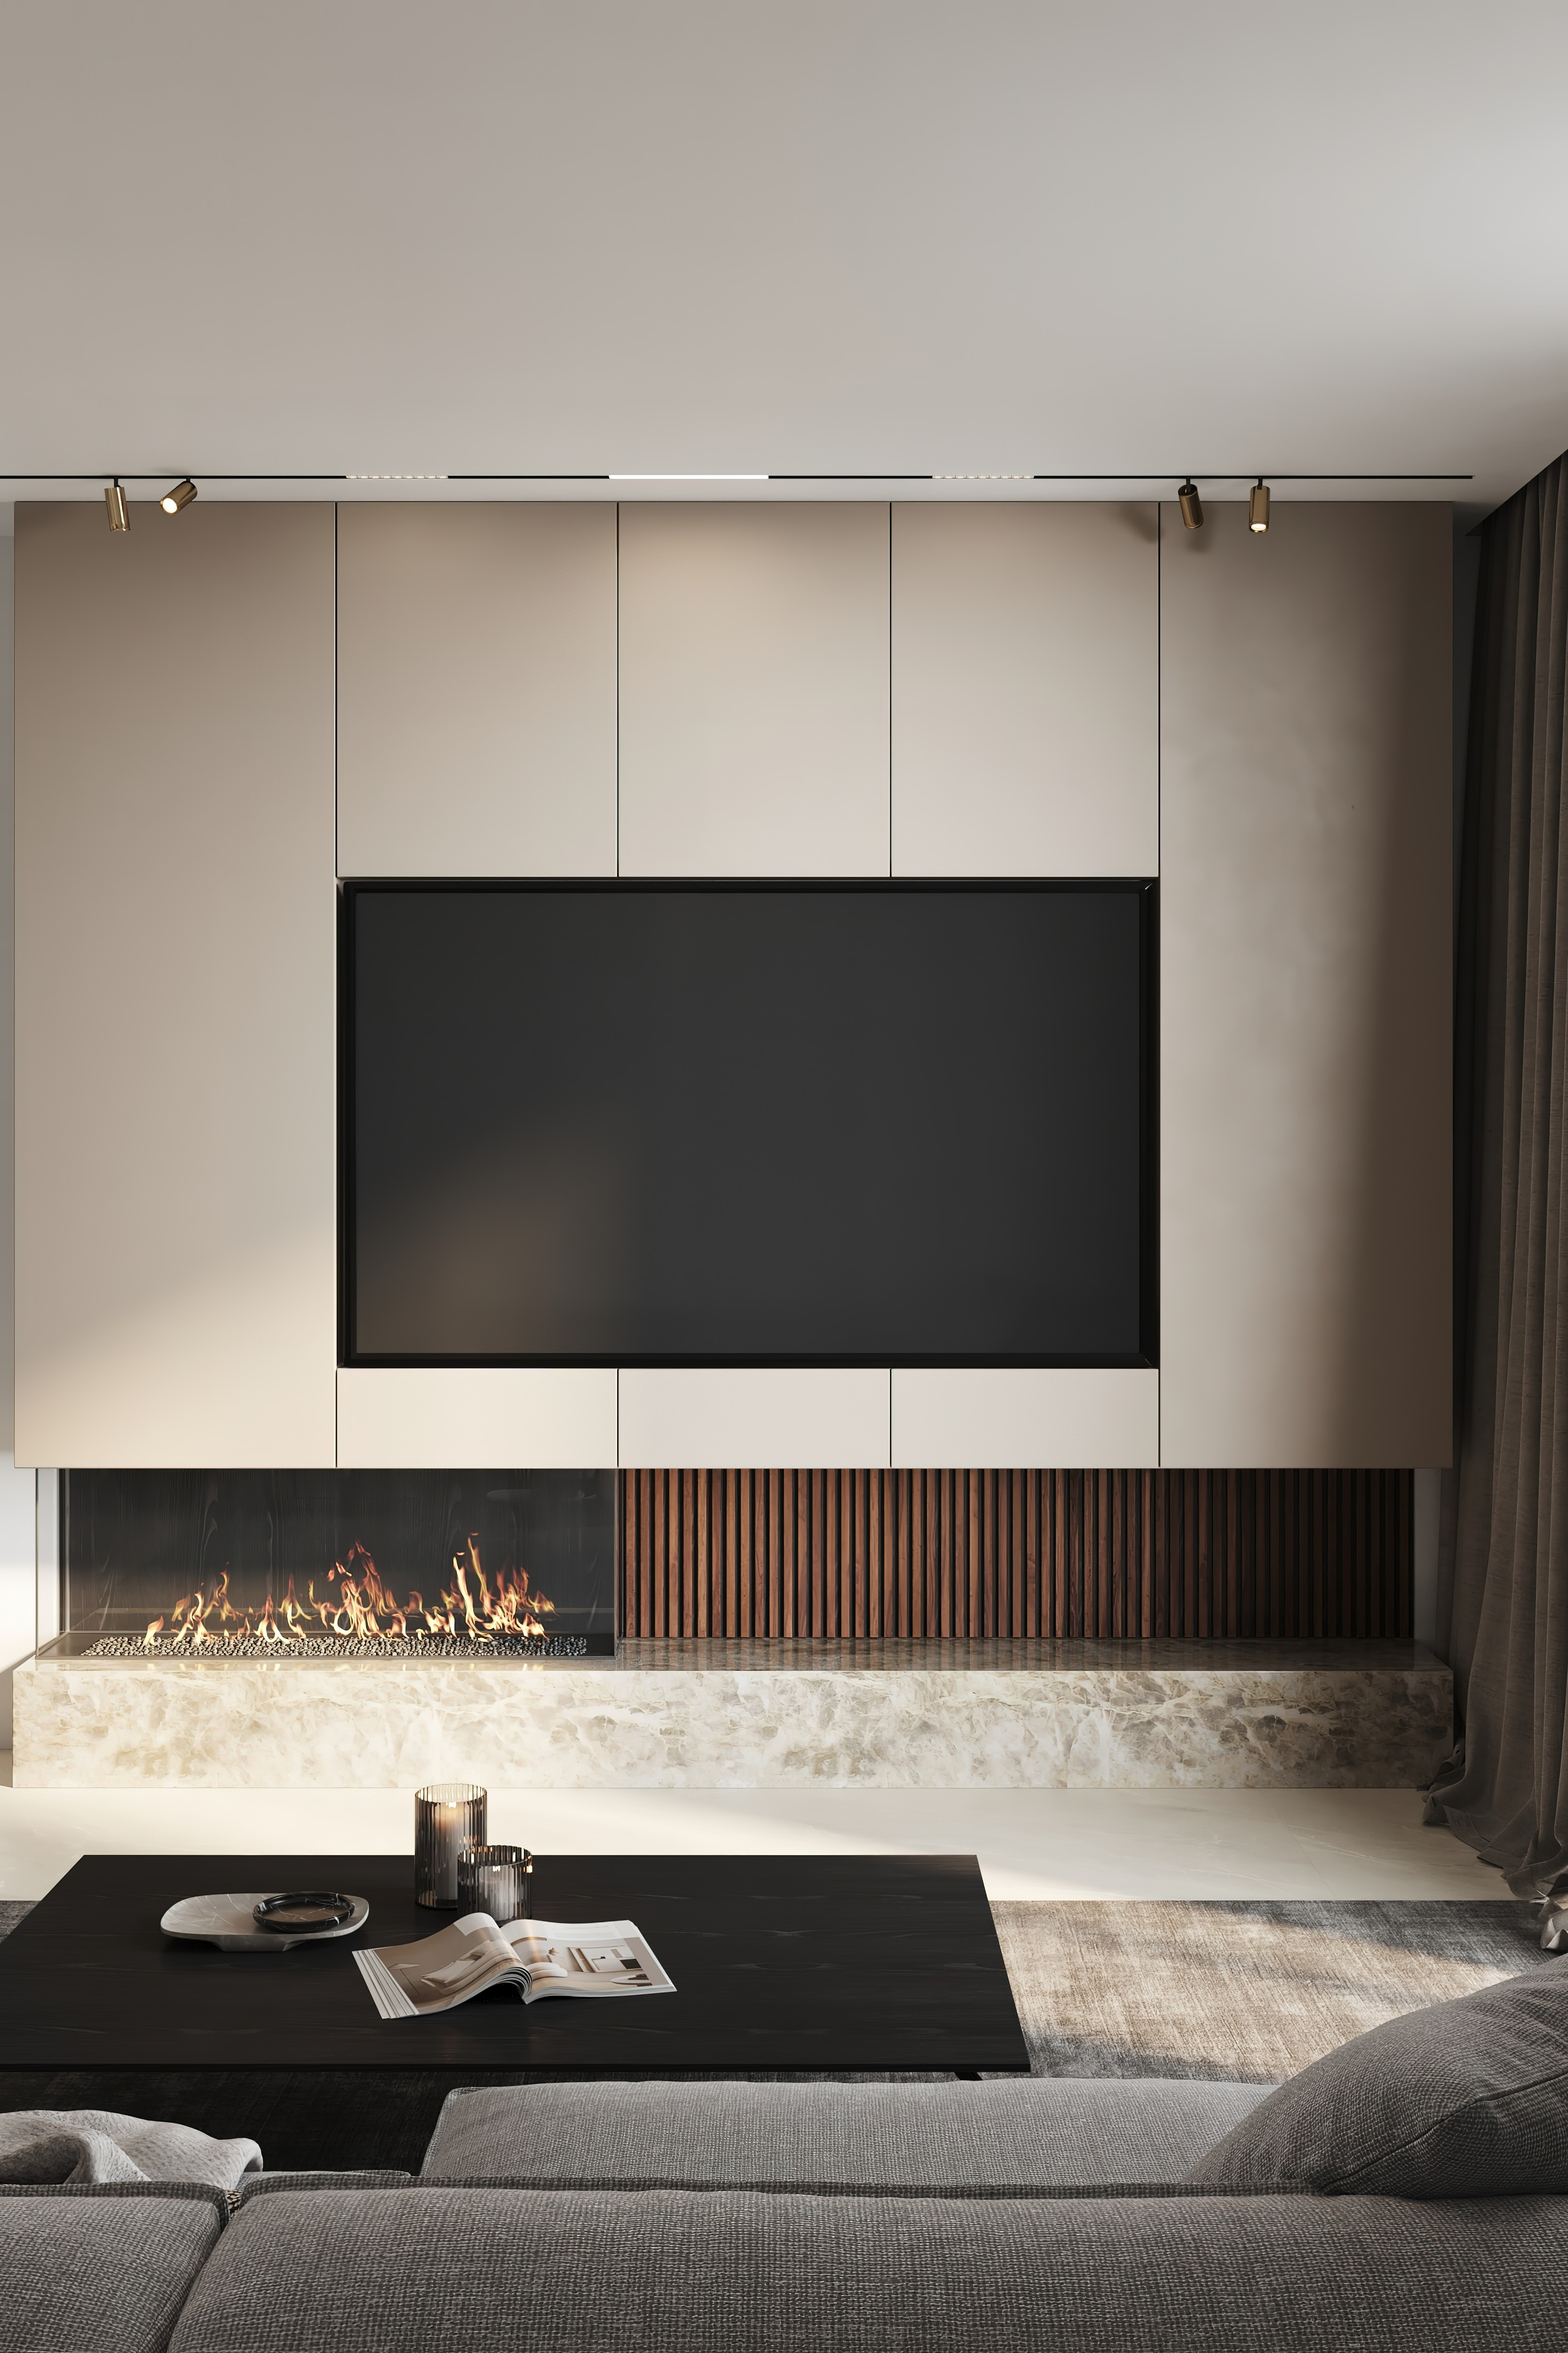
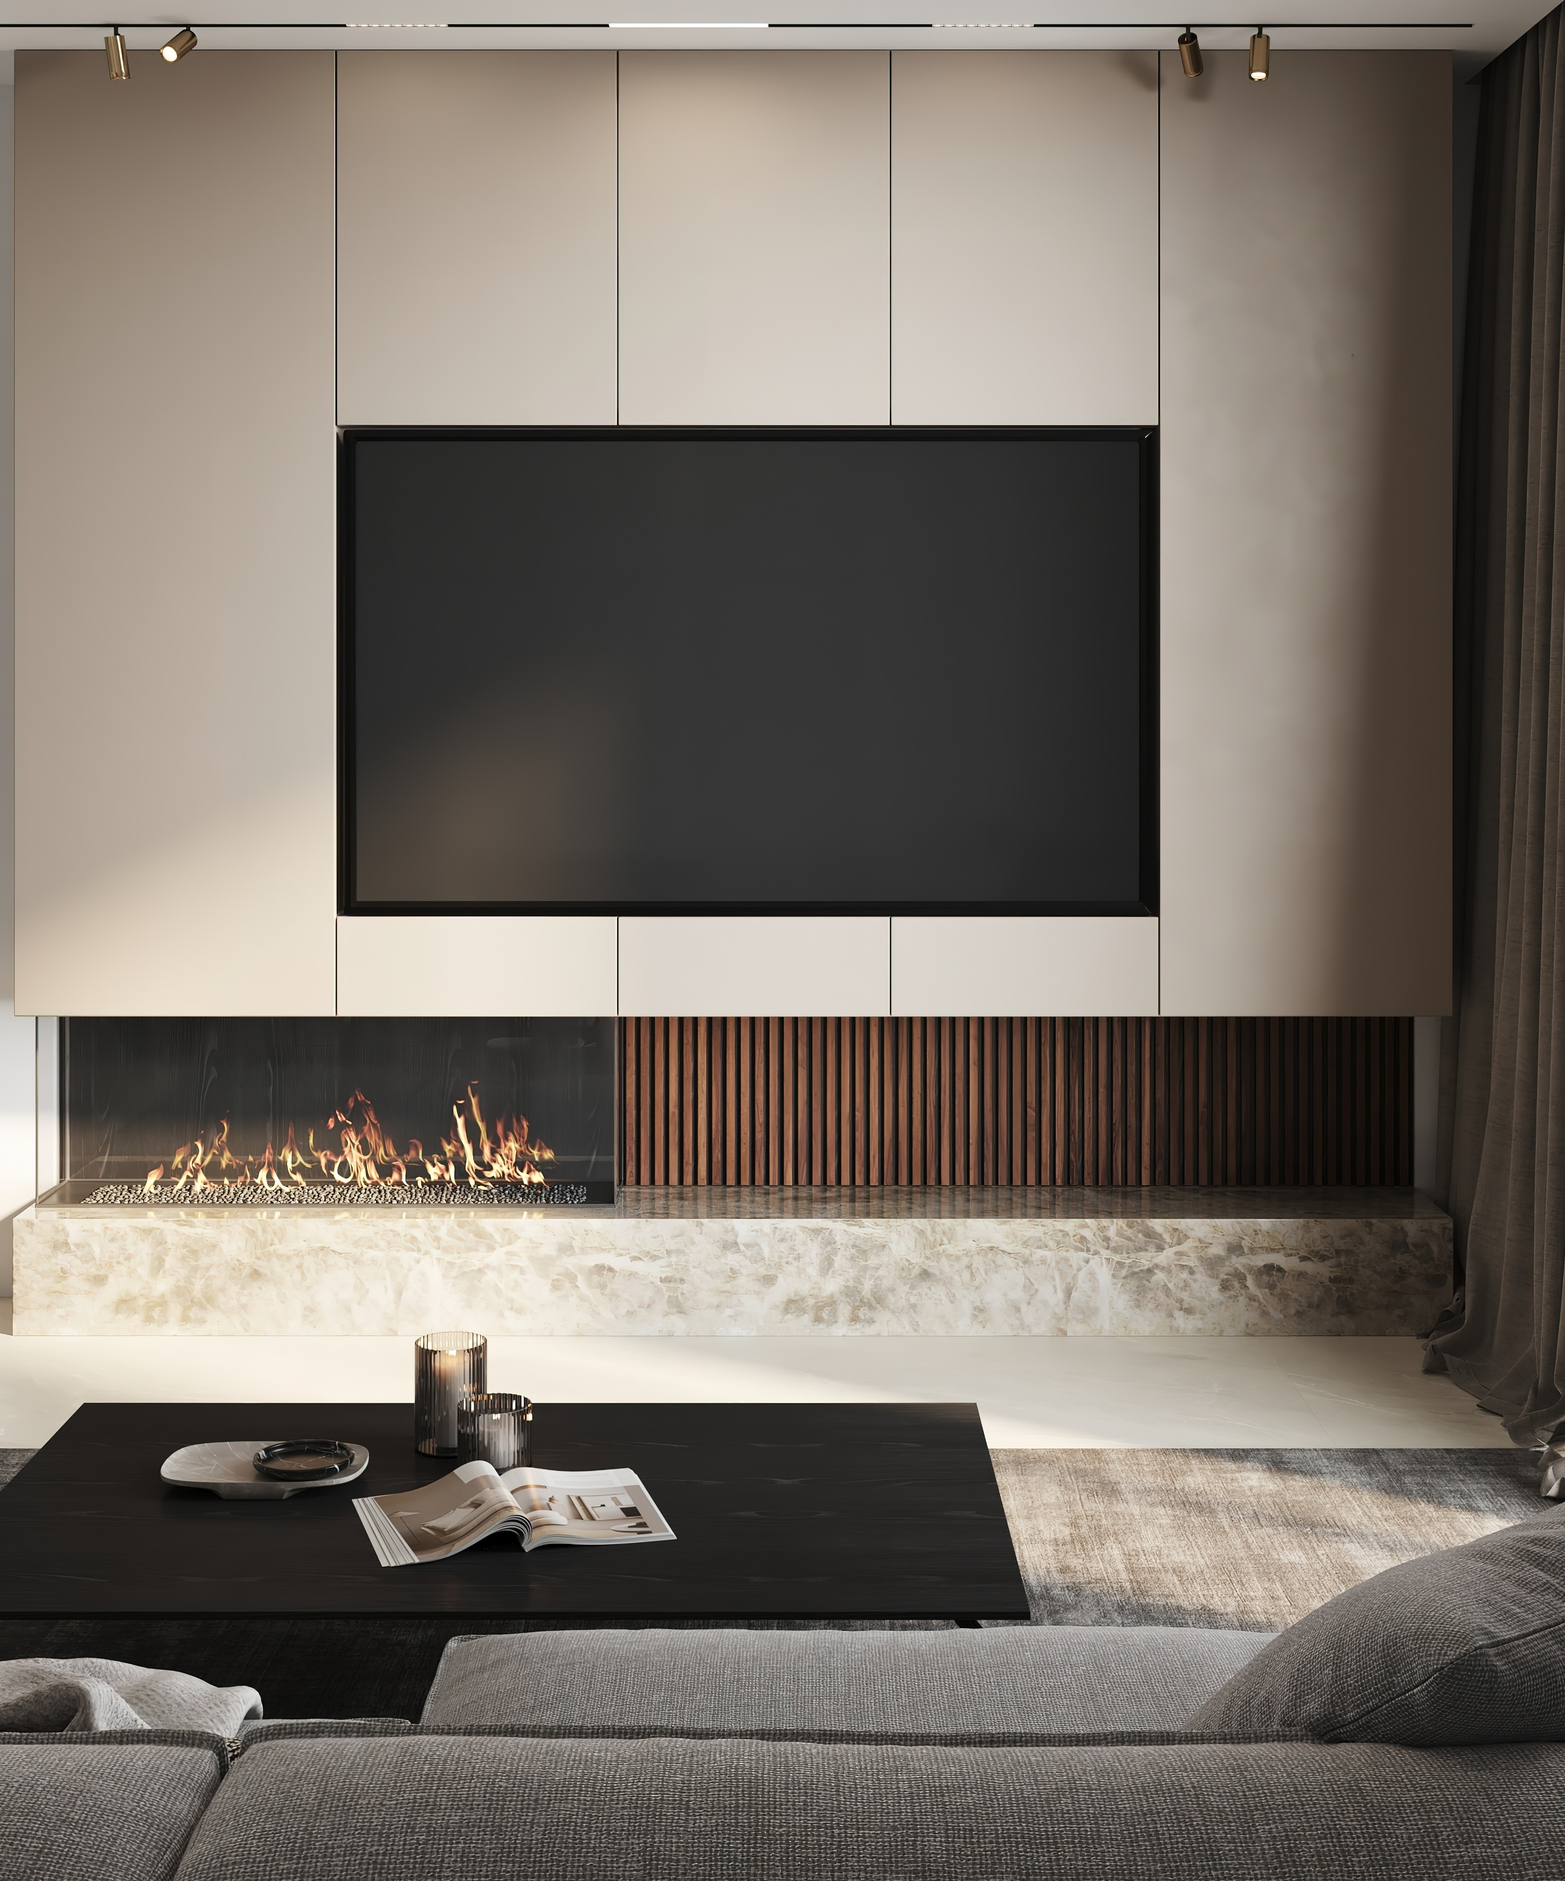
fix contact

diff --git a/index.html b/index.html
@@ -244,7 +244,7 @@
             <div id="our-contact" class="content-section">
                 <div class="row">
                     <div class="col col-half" style="display: flex; justify-content: center;">
-                        <img src="./assets/img/livingroom2.jpg" style="height: 100%; width: 100%;" alt="">
+                        <img src="./assets/img/livingroom3.jpg" style="height: 100%; width: 100%;" alt="">
                     </div>
                     <div class="col col-half" style="padding-left: 64px;">
                         <h2 class="section-heading">
